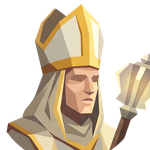
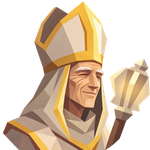
Add four session classes with familiars and portraits (#447)
* Add four classes to backend

* Add new classes and familiars to app

* Replace class and familiar portraits

diff --git a/app/Tests/QuestmasterLogicTests/SessionClassLogicTests.swift b/app/Tests/QuestmasterLogicTests/SessionClassLogicTests.swift
@@ -4,7 +4,7 @@ import QuestmasterCore
 struct SessionClassLogicTests {
     static func run() {
         classesAreTheBackendsInItsOrder()
-        displayNamesAreCapitalised()
+        classAndFamiliarNamesAreCapitalised()
         classIDsParseLeniently()
         classCycleWrapsWithoutRandom()
         classCycleCountsRandomAsASlot()
@@ -26,14 +26,15 @@ struct SessionClassLogicTests {
 
     private static func classesAreTheBackendsInItsOrder() {
         expect(
-            SessionClass.allCases.map(\.rawValue) == ["paladin", "wizard", "druid", "barbarian", "rogue", "cleric", "bard"],
+            SessionClass.allCases.map(\.rawValue) == ["paladin", "wizard", "druid", "barbarian", "rogue", "cleric", "bard", "ranger", "necromancer", "sorcerer", "fighter"],
             "the ids and their order are the backend's (internal/state/session_class.go)"
         )
     }
 
-    private static func displayNamesAreCapitalised() {
+    private static func classAndFamiliarNamesAreCapitalised() {
         expect(SessionClass.cleric.displayName == "Cleric", "the display name is the id, capitalised")
         expect(SessionClass.allCases.allSatisfy { $0.displayName.first?.isUppercase == true }, "every display name starts with a capital")
+        expect(SessionClass.allCases.map(\.familiarName) == ["Clockwork Construct", "Fire Elemental", "Treant", "Bear", "Raven", "Light Spirit", "Imp", "Hawk", "Skeleton", "Lightning Elemental", "War Hound"], "each class names its familiar")
         expect(SessionClass.randomLabel == "Random", "the default's label")
     }
 
@@ -41,12 +42,15 @@ struct SessionClassLogicTests {
         expect(SessionClass(id: "wizard") == .wizard, "an id parses")
         expect(SessionClass(id: " Druid ") == .druid, "case and whitespace don't matter")
         expect(SessionClass(id: "") == nil, "an empty class is no class")
-        expect(SessionClass(id: "ranger") == nil, "an unknown class is no class")
+        expect(SessionClass(id: "ranger") == .ranger, "the ranger class parses")
+        expect(SessionClass(id: " NECROMANCER ") == .necromancer, "a new class parses leniently")
+        expect(SessionClass(id: "unknown") == nil, "an unknown class is no class")
     }
 
     private static func classCycleWrapsWithoutRandom() {
         expect(SessionClass.paladin.next == .wizard, "paladin is followed by wizard")
-        expect(SessionClass.bard.next == .paladin, "bard wraps to paladin: an edit has no Random")
+        expect(SessionClass.bard.next == .ranger, "ranger follows bard")
+        expect(SessionClass.fighter.next == .paladin, "fighter wraps to paladin: an edit has no Random")
         var visited: [SessionClass] = [.paladin]
         for _ in 1..<SessionClass.allCases.count {
             visited.append(visited[visited.count - 1].next)
@@ -57,19 +61,23 @@ struct SessionClassLogicTests {
     private static func classCycleCountsRandomAsASlot() {
         expect(SessionClass.next(after: nil) == .paladin, "Random is followed by paladin")
         expect(SessionClass.next(after: .rogue) == .cleric, "a class is followed by the next")
-        expect(SessionClass.next(after: .bard) == nil, "bard is followed by Random")
+        expect(SessionClass.next(after: .fighter) == nil, "fighter is followed by Random")
         var choice: SessionClass? = nil
         var seen: [SessionClass?] = []
         for _ in 0...SessionClass.allCases.count {
             choice = SessionClass.next(after: choice)
             seen.append(choice)
         }
-        expect(seen == SessionClass.allCases.map { Optional($0) } + [nil], "one full lap is Random, the seven classes, Random")
+        expect(seen == SessionClass.allCases.map { Optional($0) } + [nil], "one full lap is Random, all classes, Random")
     }
 
     private static func portraitNamesCarryTheirKindBecauseResourcesFlatten() {
         expect(SessionPortrait.master(.paladin).resourceName == "class-paladin", "a master portrait is class-<id>")
-        expect(SessionPortrait.familiar(.paladin).resourceName == "familiar-paladin", "a familiar is familiar-<id>")
+        expect(SessionPortrait.familiar(.paladin).resourceName == "familiar-paladin", "a familiar portrait is named for its class")
+        expect(SessionPortrait.familiar(.ranger).resourceName == "familiar-ranger", "ranger uses its familiar portrait")
+        expect(SessionPortrait.familiar(.necromancer).resourceName == "familiar-necromancer", "necromancer uses its familiar portrait")
+        expect(SessionPortrait.familiar(.sorcerer).resourceName == "familiar-sorcerer", "sorcerer uses its familiar portrait")
+        expect(SessionPortrait.familiar(.fighter).resourceName == "familiar-fighter", "fighter uses its familiar portrait")
         expect(SessionPortrait.master(nil).resourceName == "random", "the Random silhouette")
         let names = SessionClass.allCases.flatMap { [SessionPortrait.master($0).resourceName, SessionPortrait.familiar($0).resourceName] }
             + [SessionPortrait.master(nil).resourceName]
@@ -83,7 +91,8 @@ struct SessionClassLogicTests {
         expect(SessionPortrait(session: session(role: "master", sessionClass: "cleric")) == .master(.cleric), "a master shows its class")
         expect(SessionPortrait(session: session(role: "worker", sessionClass: "cleric")) == .familiar(.cleric), "a worker shows its master's familiar")
         expect(SessionPortrait(session: session(role: "master", sessionClass: "")) == nil, "a master without a class falls back to the logo disc")
-        expect(SessionPortrait(session: session(role: "worker", sessionClass: "ranger")) == nil, "an unknown class falls back to the logo disc")
+        expect(SessionPortrait(session: session(role: "worker", sessionClass: "ranger")) == .familiar(.ranger), "a ranger worker shows its hawk familiar")
+        expect(SessionPortrait(session: session(role: "worker", sessionClass: "unknown")) == nil, "an unknown class falls back to the logo disc")
         for role in ["shell", "tmux", "orphan"] {
             expect(SessionPortrait(session: session(role: role, sessionClass: "bard")) == nil, "a \(role) row has no portrait")
         }
@@ -97,9 +106,9 @@ struct SessionClassLogicTests {
         for _ in 1..<SessionClass.allCases.count {
             model.cycleSessionClass()
         }
-        expect(model.sessionClass == .bard && model.classLabel == "Bard", "six more cycles reach bard")
+        expect(model.sessionClass == .fighter && model.classLabel == "Fighter", "ten more cycles reach fighter")
         model.cycleSessionClass()
-        expect(model.sessionClass == nil && model.classLabel == "Random", "bard is followed by Random")
+        expect(model.sessionClass == nil && model.classLabel == "Random", "fighter is followed by Random")
     }
 
     private static func newSessionSendsAClassOnlyWhenOneIsChosen() {
@@ -155,9 +164,9 @@ struct SessionClassLogicTests {
     private static func editPortraitCyclesTheMastersClassAndLeavesTheRestAlone() {
         var master = EditSessionPortrait.choosing(.bard)
         master.cycle()
-        expect(master == .choosing(.paladin), "an edit has no Random: bard wraps to paladin")
+        expect(master == .choosing(.ranger), "an edit moves from bard to ranger")
         master.cycle()
-        expect(master.label == "Wizard", "the label follows the class")
+        expect(master.label == "Necromancer", "the label follows the class")
         var worker = EditSessionPortrait.familiar(.druid)
         worker.cycle()
         expect(worker == .familiar(.druid), "⌃e and a click do nothing on a familiar")
@@ -192,7 +201,7 @@ struct SessionClassLogicTests {
 
     /// A master the backfill hasn't reached has no class, but it is still a master: its row is decided by its role.
     private static func anUnassignedMasterIsEditableAndStartsAtThePaladin() {
-        for sessionClass in ["", "ranger"] {
+        for sessionClass in ["", "unknown"] {
             let session = TrackerSession(id: "qm-1", title: "t", repoName: "r", sessionClass: sessionClass, role: "master")
             var portrait = EditSessionPortrait(session: session)
             let initial = portrait
@@ -209,7 +218,7 @@ struct SessionClassLogicTests {
                 for _ in 0..<SessionClass.allCases.count {
                     portrait.cycle()
                 }
-                expect(portrait == .choosing(.paladin), "after bard it wraps to paladin: an edit has no Random to return to")
+                expect(portrait == .choosing(.paladin), "after fighter it wraps to paladin: an edit has no Random to return to")
             } catch {
                 fail("reclassRequest threw \(error)")
             }
@@ -219,7 +228,7 @@ struct SessionClassLogicTests {
     private static func editPortraitNamesItselfForAssistiveTechnology() {
         expect(EditSessionPortrait.choosing(.cleric).accessibilityLabel == "Class Cleric", "a master's portrait names its class")
         expect(EditSessionPortrait.choosing(nil).accessibilityLabel == "Class Random", "an unassigned master's portrait says Random")
-        expect(EditSessionPortrait.familiar(.druid).accessibilityLabel == "Druid familiar", "a worker's portrait names its familiar")
+        expect(EditSessionPortrait.familiar(.druid).accessibilityLabel == "Treant familiar", "a worker's portrait names its familiar")
         expect(EditSessionPortrait.none.accessibilityLabel == nil, "no portrait, no label")
     }
 

diff --git a/app/Sources/Core/Mutations/SessionClassLogic.swift b/app/Sources/Core/Mutations/SessionClassLogic.swift
@@ -10,6 +10,10 @@ public enum SessionClass: String, CaseIterable, Equatable, Sendable {
     case rogue
     case cleric
     case bard
+    case ranger
+    case necromancer
+    case sorcerer
+    case fighter
 
     /// New Session's default: no class is sent, and the backend picks one.
     public static let randomLabel = "Random"
@@ -22,13 +26,30 @@ public enum SessionClass: String, CaseIterable, Equatable, Sendable {
         rawValue.capitalized
     }
 
+    /// The familiar that represents a worker of this class.
+    public var familiarName: String {
+        switch self {
+        case .paladin: "Clockwork Construct"
+        case .wizard: "Fire Elemental"
+        case .druid: "Treant"
+        case .barbarian: "Bear"
+        case .rogue: "Raven"
+        case .cleric: "Light Spirit"
+        case .bard: "Imp"
+        case .ranger: "Hawk"
+        case .necromancer: "Skeleton"
+        case .sorcerer: "Lightning Elemental"
+        case .fighter: "War Hound"
+        }
+    }
+
     /// The class after this one, wrapping to the first.
     public var next: SessionClass {
         let all = Self.allCases
         return all[((all.firstIndex(of: self) ?? 0) + 1) % all.count]
     }
 
-    /// New Session's cycle, with Random (nil) as the slot after the last class: Random, paladin, …, bard, Random.
+    /// New Session's cycle, with Random (nil) as the slot after the last class: Random, paladin, …, fighter, Random.
     public static func next(after choice: SessionClass?) -> SessionClass? {
         guard let choice else {
             return allCases.first
@@ -127,7 +148,7 @@ public enum EditSessionPortrait: Equatable {
         case .choosing:
             return label.map { "Class \($0)" }
         case .familiar(let sessionClass):
-            return "\(sessionClass.displayName) familiar"
+            return "\(sessionClass.familiarName) familiar"
         case .none:
             return nil
         }

diff --git a/app/Sources/App/Runtime/LogicSelfTests.swift b/app/Sources/App/Runtime/LogicSelfTests.swift
@@ -5759,7 +5759,7 @@ enum LogicSelfTests {
         try expect(client.sentRequests.count == 2 && client.sentRequests[1].data["class"] == "wizard", "a chosen class is sent by its id")
     }
 
-    /// The portraits' bundle names are flattened (`class-<id>`, `familiar-<id>`, `random`): each resolves to its own raster,
+    /// The portraits' bundle names are flattened (`class-<id>`, `familiar-<class-id>`, `random`): each resolves to its own raster,
     /// the class portraits and Random at 150px and the familiars at 120px (3x their 50 and 40pt discs), so a misnamed or
     /// missing file shows here instead of as an empty disc.
     private static func testEveryPortraitIsBundledUnderItsOwnName() throws {

diff --git a/app/Sources/Core/Mutations/NewSessionLogic.swift b/app/Sources/Core/Mutations/NewSessionLogic.swift
@@ -311,7 +311,7 @@ public struct NewSessionFormModel: Equatable {
         sessionClass?.displayName ?? SessionClass.randomLabel
     }
 
-    /// Cycles the class through Random and the seven classes, independent of focus (see `SessionClassKey`).
+    /// Cycles the class through Random and all classes, independent of focus (see `SessionClassKey`).
     public mutating func cycleSessionClass() {
         guard !submitting else {
             return

diff --git a/internal/state/session_class_test.go b/internal/state/session_class_test.go
@@ -18,10 +18,10 @@ func TestChooseSessionClass(t *testing.T) {
 		want        string
 		wantChoices int
 	}{
-		{name: "empty", index: 2, want: "druid", wantChoices: 7},
-		{name: "partial unused first", active: []string{"paladin", "paladin", "wizard"}, index: 1, want: "barbarian", wantChoices: 5},
-		{name: "all used", active: []string{"paladin", "wizard", "druid", "barbarian", "rogue", "cleric", "bard", "paladin"}, index: 2, want: "barbarian", wantChoices: 6},
-		{name: "lowest count tie", active: []string{"paladin", "paladin", "wizard", "druid", "barbarian", "barbarian", "rogue", "rogue", "cleric", "cleric", "bard", "bard"}, index: 1, want: "druid", wantChoices: 2},
+		{name: "empty", index: 2, want: "druid", wantChoices: 11},
+		{name: "partial unused first", active: []string{"paladin", "paladin", "wizard"}, index: 1, want: "barbarian", wantChoices: 9},
+		{name: "all used", active: []string{"paladin", "wizard", "druid", "barbarian", "rogue", "cleric", "bard", "paladin"}, index: 2, want: "sorcerer", wantChoices: 4},
+		{name: "lowest count tie", active: []string{"paladin", "paladin", "wizard", "druid", "barbarian", "barbarian", "rogue", "rogue", "cleric", "cleric", "bard", "bard"}, index: 1, want: "necromancer", wantChoices: 4},
 	}
 	for _, tt := range tests {
 		t.Run(tt.name, func(t *testing.T) {
@@ -42,7 +42,7 @@ func TestChooseSessionClass(t *testing.T) {
 func TestValidateSessionClass(t *testing.T) {
 	t.Parallel()
 
-	want := []string{"paladin", "wizard", "druid", "barbarian", "rogue", "cleric", "bard"}
+	want := []string{"paladin", "wizard", "druid", "barbarian", "rogue", "cleric", "bard", "ranger", "necromancer", "sorcerer", "fighter"}
 	for _, class := range want {
 		if got, err := ValidateSessionClass(class); err != nil || got != class {
 			t.Fatalf("ValidateSessionClass(%q) = %q, %v", class, got, err)
@@ -51,8 +51,8 @@ func TestValidateSessionClass(t *testing.T) {
 	if got, err := ValidateSessionClass(" Wizard "); err != nil || got != "wizard" {
 		t.Fatalf("ValidateSessionClass() = %q, %v; want wizard", got, err)
 	}
-	if _, err := ValidateSessionClass("ranger"); err == nil || !strings.Contains(err.Error(), strings.Join(want, ", ")) {
-		t.Fatalf("ValidateSessionClass(ranger) error = %v, want valid ids", err)
+	if _, err := ValidateSessionClass("unknown"); err == nil || !strings.Contains(err.Error(), strings.Join(want, ", ")) {
+		t.Fatalf("ValidateSessionClass(unknown) error = %v, want valid ids", err)
 	}
 }
 
@@ -76,7 +76,7 @@ func TestStoreSetSessionClassOnlyAllowsMasters(t *testing.T) {
 		},
 		{name: "worker", manifest: Manifest{SessionID: "qm-worker", Agents: []AgentManifest{{Name: "codex", Role: "agent"}}, Extra: map[string]json.RawMessage{"parent_session": json.RawMessage(`"qm-master"`)}}, class: "bard", wantErrPart: "workers inherit"},
 		{name: "shell", manifest: Manifest{SessionID: "qm-shell"}, class: "bard", wantErrPart: "shell sessions"},
-		{name: "invalid class", manifest: Manifest{SessionID: "qm-invalid", Agents: []AgentManifest{{Name: "codex", Role: "agent"}}}, class: "ranger", wantErrPart: "paladin, wizard, druid, barbarian, rogue, cleric, bard"},
+		{name: "invalid class", manifest: Manifest{SessionID: "qm-invalid", Agents: []AgentManifest{{Name: "codex", Role: "agent"}}}, class: "unknown", wantErrPart: "paladin, wizard, druid, barbarian, rogue, cleric, bard, ranger, necromancer, sorcerer, fighter"},
 	}
 	for _, tt := range tests {
 		t.Run(tt.name, func(t *testing.T) {

diff --git a/cmd/session_test.go b/cmd/session_test.go
@@ -14,7 +14,7 @@ func TestSessionNew_JSONAndPromptFile(t *testing.T) {
 	writeAgentConfig(t, cwd)
 	prependStubQuestmasterToPath(t)
 
-	out := runCmdInput(t, store, allPassRunner(), strings.NewReader("session prompt from stdin"), "session", "new", "--cwd", cwd, "--class", "paladin", "--prompt-file", "-", "json-session")
+	out := runCmdInput(t, store, allPassRunner(), strings.NewReader("session prompt from stdin"), "session", "new", "--cwd", cwd, "--class", "ranger", "--prompt-file", "-", "json-session")
 
 	var got struct {
 		SessionID  string `json:"session_id"`
@@ -36,8 +36,8 @@ func TestSessionNew_JSONAndPromptFile(t *testing.T) {
 	if prompt := m.ExtraString("initial_prompt"); prompt != "session prompt from stdin" {
 		t.Fatalf("initial_prompt = %q, want stdin prompt", prompt)
 	}
-	if got := m.DisplayClass(); got != "paladin" {
-		t.Fatalf("session class = %q, want paladin", got)
+	if got := m.DisplayClass(); got != "ranger" {
+		t.Fatalf("session class = %q, want ranger", got)
 	}
 }
 
@@ -71,8 +71,8 @@ func TestSessionNew_ShellFlagCreatesAgentlessSession(t *testing.T) {
 func TestSessionNewRejectsInvalidClass(t *testing.T) {
 	store := setupStore(t)
 	writeAgentConfig(t, "")
-	_, err := runCmdErr(t, store, allPassRunner(), "session", "new", "--class", "ranger")
-	if err == nil || !strings.Contains(err.Error(), "paladin, wizard, druid, barbarian, rogue, cleric, bard") {
+	_, err := runCmdErr(t, store, allPassRunner(), "session", "new", "--class", "unknown")
+	if err == nil || !strings.Contains(err.Error(), "paladin, wizard, druid, barbarian, rogue, cleric, bard, ranger, necromancer, sorcerer, fighter") {
 		t.Fatalf("invalid session class error = %v, want supported class list", err)
 	}
 }

diff --git a/internal/session/start_test.go b/internal/session/start_test.go
@@ -117,15 +117,15 @@ func TestStartAssignsOrPersistsSessionClass(t *testing.T) {
 		want  string
 	}{
 		{name: "automatic", index: 6, want: "bard"},
-		{name: "explicit", class: " Wizard ", want: "wizard"},
+		{name: "explicit", class: " Ranger ", want: "ranger"},
 	}
 	for _, tt := range tests {
 		t.Run(tt.name, func(t *testing.T) {
 			t.Parallel()
 			svc, _ := setupService(t)
 			svc.RandClassIndex = func(n int) int {
-				if n != 7 {
-					t.Fatalf("random class choices = %d, want 7", n)
+				if n != 11 {
+					t.Fatalf("random class choices = %d, want 11", n)
 				}
 				return tt.index
 			}
@@ -171,8 +171,8 @@ func TestStartDefaultClassCountsOnlyLiveMasters(t *testing.T) {
 		}
 	}
 	svc.RandClassIndex = func(n int) int {
-		if n != 5 {
-			t.Fatalf("least-used classes = %d, want 5", n)
+		if n != 9 {
+			t.Fatalf("least-used classes = %d, want 9", n)
 		}
 		return 1
 	}
@@ -198,7 +198,7 @@ func TestStartRejectsInvalidOrInapplicableSessionClass(t *testing.T) {
 		opts    StartOpts
 		wantErr string
 	}{
-		{name: "invalid", opts: StartOpts{Class: "ranger"}, wantErr: "paladin, wizard, druid, barbarian, rogue, cleric, bard"},
+		{name: "invalid", opts: StartOpts{Class: "unknown"}, wantErr: "paladin, wizard, druid, barbarian, rogue, cleric, bard, ranger, necromancer, sorcerer, fighter"},
 		{name: "shell", opts: StartOpts{Shell: true, Class: "wizard"}, wantErr: "shell sessions"},
 		{name: "worker", opts: StartOpts{MasterID: "qm-master", Class: "wizard"}, wantErr: "workers inherit"},
 	}

diff --git a/internal/serve/server_test.go b/internal/serve/server_test.go
@@ -2032,8 +2032,8 @@ func TestServerReclassMutationRequiresMasterAndPersists(t *testing.T) {
 				SessionID: "qm-class-invalid",
 				Agents:    []state.AgentManifest{{Name: "codex", Role: "agent"}},
 			},
-			class:   "ranger",
-			wantErr: "paladin, wizard, druid, barbarian, rogue, cleric, bard",
+			class:   "unknown",
+			wantErr: "paladin, wizard, druid, barbarian, rogue, cleric, bard, ranger, necromancer, sorcerer, fighter",
 		},
 	}
 	for _, tt := range tests {

diff --git a/internal/state/session_class.go b/internal/state/session_class.go
@@ -7,7 +7,7 @@ import (
 	"time"
 )
 
-var sessionClassNames = []string{"paladin", "wizard", "druid", "barbarian", "rogue", "cleric", "bard"}
+var sessionClassNames = []string{"paladin", "wizard", "druid", "barbarian", "rogue", "cleric", "bard", "ranger", "necromancer", "sorcerer", "fighter"}
 
 var sessionClassSet = func() map[string]struct{} {
 	set := make(map[string]struct{}, len(sessionClassNames))

diff --git a/internal/session/class_backfill_test.go b/internal/session/class_backfill_test.go
@@ -110,7 +110,7 @@ func TestClassBackfillJobBalancesLiveMastersAndStopsAfterSuccess(t *testing.T) {
 
 	for id, want := range map[string]string{
 		"qm-live-missing":   "bard",
-		"qm-stopped-old":    "paladin",
+		"qm-stopped-old":    "ranger",
 		"qm-master-paladin": "paladin",
 	} {
 		manifest, err := store.Read(id)
